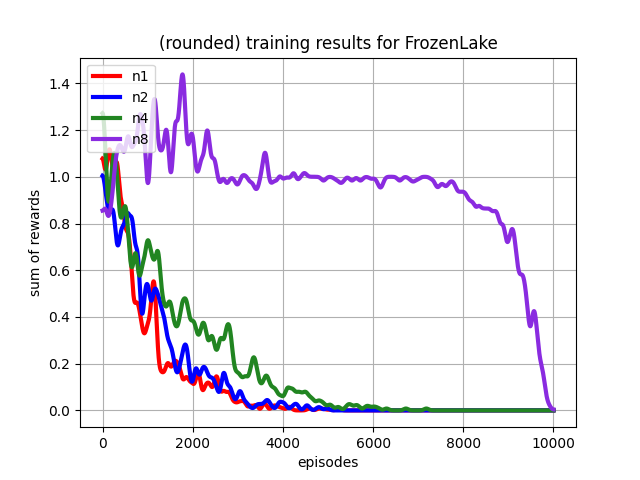
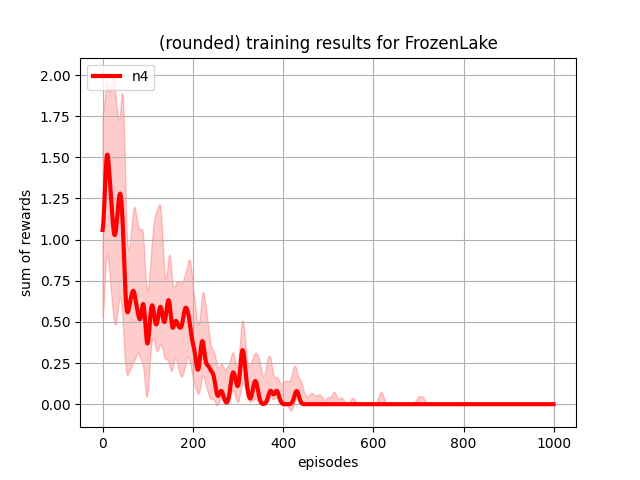
Update readme experiments

diff --git a/utils/visualize_training_results_for_agents.py b/utils/visualize_training_results_for_agents.py
@@ -42,20 +42,25 @@ def visualize_training_results_for_agents(stats_multiple_agents: dict, save_fig=
         length_episode = len(rewards_per_episode)
 
         smooth_filter = length_episode / 200
-        min_rewards_per_episode = list(gaussian_filter1d(np.min(rewards_per_episode, axis=-1), sigma=smooth_filter))
-        mean_rewards_per_episode = list(gaussian_filter1d(np.mean(rewards_per_episode, axis=-1), sigma=smooth_filter))
-        max_rewards_per_episode = list(gaussian_filter1d(np.max(rewards_per_episode, axis=-1), sigma=smooth_filter))
+
+        lower_quantile_rewards_per_episode = np.quantile(rewards_per_episode, 0.25, axis=-1)
+        median_rewards_per_episode = np.median(rewards_per_episode, axis=-1)
+        upper_quantile_per_episode = np.quantile(rewards_per_episode, 0.75, axis=-1)
+
+        lower_quantile_smoothed = list(gaussian_filter1d(lower_quantile_rewards_per_episode, sigma=smooth_filter))
+        median_rewards_smoothed = list(gaussian_filter1d(median_rewards_per_episode, sigma=smooth_filter))
+        upper_quantile_smoothed = list(gaussian_filter1d(upper_quantile_per_episode, sigma=smooth_filter))
 
         if zero_zero_start:
-            min_rewards_per_episode.insert(0, 0.0)
-            mean_rewards_per_episode.insert(0, 0.0)
-            max_rewards_per_episode.insert(0, 0.0)
+            lower_quantile_smoothed.insert(0, 0.0)
+            median_rewards_smoothed.insert(0, 0.0)
+            upper_quantile_smoothed.insert(0, 0.0)
 
         color = COLORS[agent_idx]
         color_light = color.copy()
         color_light.append(0.2)
-        plt.fill_between(range(length_episode), min_rewards_per_episode, max_rewards_per_episode, color=color_light)
-        plt.plot(mean_rewards_per_episode, label=agent_name, color=color, linewidth=3)
+        plt.fill_between(range(length_episode), lower_quantile_smoothed, upper_quantile_smoothed, color=color_light)
+        plt.plot(median_rewards_smoothed, label=agent_name, color=color, linewidth=3)
 
     plt.grid()
     plt.ylabel('sum of rewards')

diff --git a/experiments/comparison_n_for_ntd_prediction.py b/experiments/comparison_n_for_ntd_prediction.py
@@ -13,7 +13,7 @@ The results are visualized in a graph stored in an image.
 env = MazeEnv('m')
 
 # Hyperparameters:
-training_episodes = 10000
+training_episodes = 1000
 
 epsilon_start = 1
 epsilon_min = 0
@@ -28,7 +28,7 @@ n4 = NStepTDPredictionAgent(env, n=4, alpha=0.1, name='n4', epsilon=epsilon_star
 n8 = NStepTDPredictionAgent(env, n=8, alpha=0.1, name='n8', epsilon=epsilon_start, epsilon_min=epsilon_min,
                             epsilon_reduction=epsilon_reduction)
 
-stats = train_agents(env, [n1, n2, n4, n8], training_episodes=training_episodes, repetitions=1, max_step_per_episode=500)
+stats = train_agents(env, [n4], training_episodes=training_episodes, repetitions=3, max_step_per_episode=500)
 visualize_training_results_for_agents(stats, save_fig='comparison_n_step_td_prediction.png',
                                       train_for='FrozenLake')
 

diff --git a/experiments/EXPERIMENTS.md b/experiments/EXPERIMENTS.md
@@ -25,6 +25,8 @@ visualize_training_results_for_agents(stats)
 ## Comparison
 
 ### Table based methods
+<img src="./plots/table_based_models_frozen_lake.png" width="200" />
+
 ![](./plots/table_based_models_frozen_lake.png)
 
 ### NTD prediction
